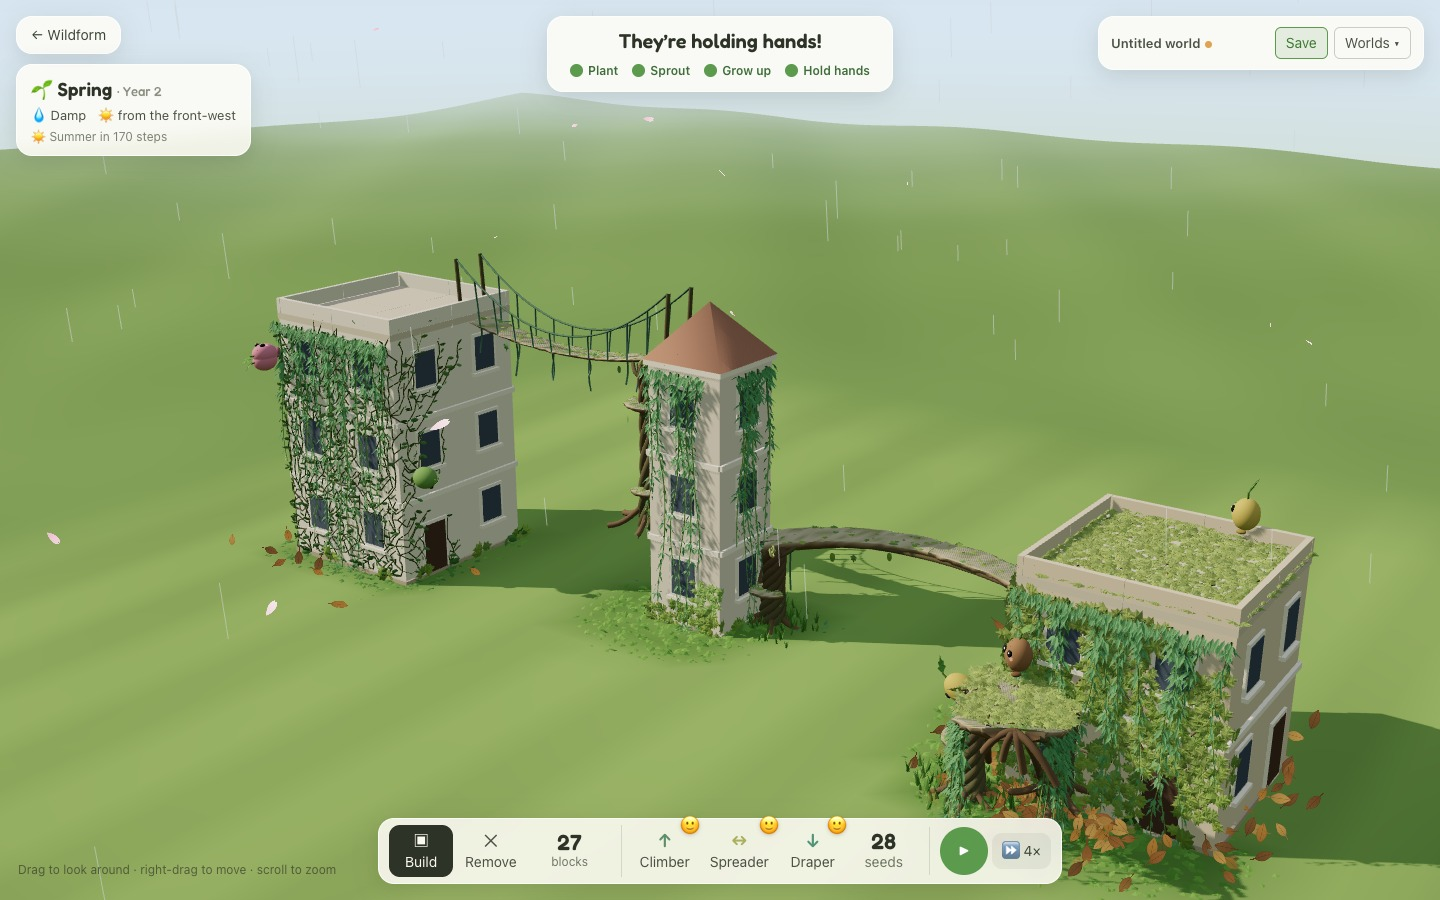
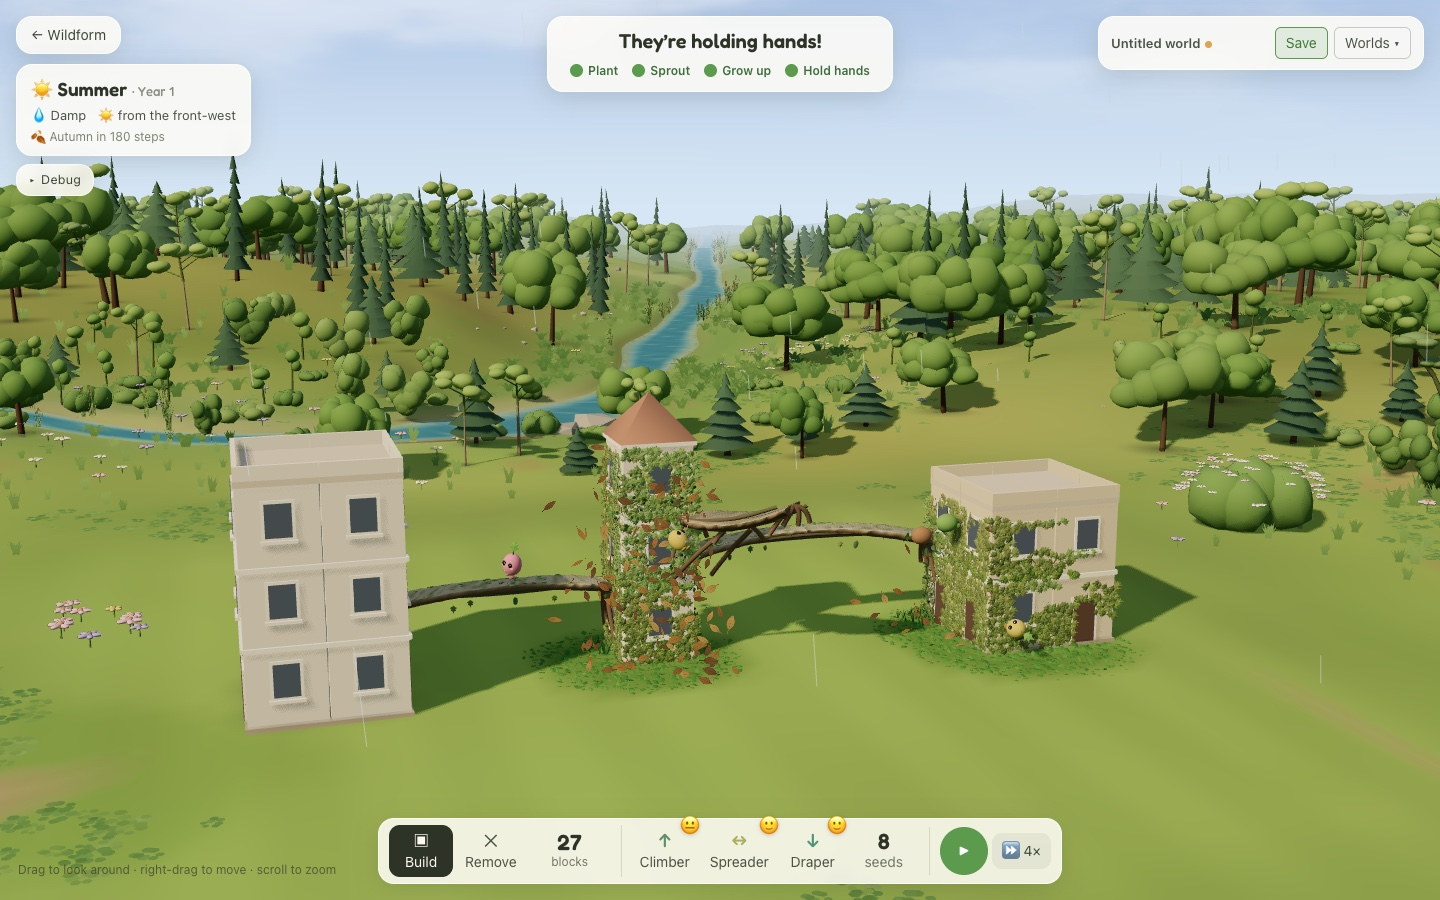
README: the game in its landscape; the studio's mind and Play's Debug layer
The Play and Seasons figures predated the landscape: both showed the
plants against a bare lawn. Recaptured from main in headless Chrome —
the regression's world (3 blocks, 8 seeds; goal at 690), one view across
the clearing to the stream and forest. Seasons at steps 884, 1,324,
1,824 and 2,324, each ≥ 116 steps from a change. (A first try at "950"
came out all autumn: the game ran on to ~1,045 while the frame settled —
the capture, not the blend, which gives 7% autumn at 950.) JPEG q88:
+372 KB together, the forest being busier than the lawn was.

Text: the clearing in "Build, plant, grow"; a paragraph on the land; the
seasons turning the land too. The studio's mind panel and Play's Debug
layer are shown with their existing figures (no new bytes). Source tree:
the eleven files and three tests missing from it. play.md's seasons
caption carries the new steps and says why it was recaptured.

The hero stays: it is the front door's own static image, which still
shows what the app shows.

diff --git a/README.md b/README.md
@@ -36,14 +36,14 @@ two buildings that stand too far apart for plants alone *holding hands*.
 
 ## How it plays
 
-**Build, plant, grow.** Two buildings stand on a lawn eight columns apart; a
-living bridge reaches five. So the player has to choose what to build — a
+**Build, plant, grow.** Two buildings stand on a lawn eight columns apart, in
+a clearing in the forest; a living bridge reaches five. So the player has to choose what to build — a
 stepping-stone tower, a wing pushed out — and where to plant, then let the
 plants do the rest. Blocks place themselves Townscaper-style: walls, roofs,
 arches and ledges work themselves out. Building and growing are one loop:
 editing the town mid-growth carries every plant onto the new building.
 
-![The game in its second spring, goal complete: a suspended walkway slung from the west building to the stepping-stone tower, a living bridge on to the east building, a balcony on root columns, walls and a roof terrace grown over, petals in the air and inhabitants on three of the buildings — with the goal, the season, and the toolbar counting 27 blocks and 28 seeds](docs/images/readme-play.jpg)
+![The game in its first summer, goal complete: a three-block stepping-stone tower between the two buildings, a living walkway from the west building to it and a bridge on to the east, both grown over with Climber and Spreader, inhabitants on the walkway and the east wall — and behind, the clearing's meadow, a stream coming down out of mixed forest, and the ridge beyond; the goal, the season, the Debug toggle and the toolbar counting 27 blocks left and 8 seeds](docs/images/readme-play.jpg)
 
 **Three plants, three directions.** Each grows by its own tendency. The
 **Climber** goes up, following edges — window frames, string courses,
@@ -63,13 +63,21 @@ support, and becomes a surface they grow on in turn.
 
 ![All eight living structures from the Architecture page, each a specimen grown in a real game: a bridge between two towers, a balcony braced out from a wall, a scaffold spiralling up beside a tower, a terrace on columns, a canopy held out from a wall, a suspended walkway slung between two towers, a hanging pod under an eave, and a root column holding up a walkway](docs/images/readme-architecture.jpg)
 
+**The land.** The town sits in a small clearing in a shallow hollow: a meadow
+of ground cover and wildflower drifts, footpaths coming in from the forest to
+each building, a stream cut into the land at the foot of a ridge, and a forest
+of mixed groves beyond. All of it is generated from a seed and saved as one,
+and none of it touches the ground the game is played on.
+
 **Seasons.** The year turns on its own: four seasons set the real rain, sun
 and warmth the plants grow by, eased across each change, and shown — leaf
-colour, sky, rain, snow, brown leaves falling where plants wither. Tuned over
+colour, sky, rain, snow, brown leaves falling where plants wither — and the
+land turns with them: the forest and undergrowth colour together, flowers
+close, leaves float down the stream, and in winter its edges frost. Tuned over
 ten seeds so the goal comes as often as before, with winter costing about a
 third of the plants and spring growing them back.
 
-![One world in its four seasons, close on a tower with a hanging pod, a suspended walkway and a living bridge: fresh green in spring, deep green in summer, red-orange leaves falling under a warm sky in autumn, a cool cast with snow in winter — inhabitants in each](docs/images/readme-seasons.jpg)
+![One world in its four seasons, from the same view across the clearing to the stream and the forest: fresh green in spring with flowers in the meadow, warmer green in summer, the forest and the plants on the buildings orange under a warm sky in autumn with leaves falling, a cool cast with snow and a frosted stream in winter — inhabitants on the structures in each](docs/images/readme-seasons.jpg)
 
 **Inhabitants.** Small creatures live on the green: they walk only where
 plants grow or on mature living architecture, so two buildings are separate
@@ -83,6 +91,11 @@ They make the consequences of growth visible.
 <p><img src="docs/images/readme-inhabitants-animations.gif" width="100%" alt="The four coats, each in one of the four animations: Moss idle, Lichen walking, Blossom discovering, Bark puzzled"></p>
 
 <p><img src="docs/images/readme-inhabitants-bridge.gif" width="100%" alt="The Inhabitants studio: two inhabitants walking across a living bridge, the camera following, while the inspector beside it counts down the cells left to the east building"></p>
+
+The studio shows why each does what it does: its state machine, drawn from
+the same table every change is checked against, and its goals scored.
+
+![The Inhabitants studio's mind panel: the state machine as a graph, Idle to Resting just taken and highlighted; beside it the four goals scored — Rest 0.12 chosen, with its reasons — and controls to change the season, its nature and its needs](docs/images/inhabitants-mind.png)
 
 Worlds can be saved and reopened, signed in, as state rather than a picture —
 a loaded world carries on growing exactly as it would have.
@@ -117,6 +130,14 @@ the player places to the living architecture the plants grow, and back:
 The full account, with every formula and constant, is
 [`docs/project/how-it-works.md`](docs/project/how-it-works.md); in the app,
 **Project → How it works**.
+
+To watch the mechanisms at work in a real game, open **Debug** in Play: it
+draws the simulation's own data over the scene — growth nodes and tip
+directions, surface suitability, the node rules' radii and the next structure
+to form, each inhabitant's state, goal and route — with Pause, Step and a
+time scale. It only reads; nothing it shows changes what grows.
+
+![Play with the Debug panel open and paused at step 380: growth nodes and mutation points drawn on the stepping-stone tower and the east building, labelled with what met and how close each is to forming, a walkway 40% to mature, and two inhabitants tagged with their states](docs/images/play-debug.png)
 
 ## The pages
 
@@ -290,6 +311,7 @@ src/
 │   ├── reactionDiffusion.ts  Gray–Scott
 │   ├── erosion.ts            Virtual-pipe hydraulic erosion
 │   ├── boids.ts              Fish schooling
+│   ├── shading.ts            One surface shaded eight ways: the comparison's scene
 │   └── index.ts              The strategy registry
 ├── study/                    Shared by the Topic 5–8 studies
 │   ├── terrain.ts            Small eroded terrain: height, slope, distance to water
@@ -393,6 +415,7 @@ src/
 │   ├── landscape.ts          The land round the town: terrain, fields, forest, stream, paths, scatter
 │   ├── features.ts           Lines through the land: nearest-segment index, rounding, A* routing
 │   ├── landscapeDecor.ts     The land drawn: trees, decorations, water, paths, their seasons
+│   ├── landscapePrefs.ts     Show decorations: a display preference shared by Play and the Lab
 │   ├── living.ts             Mutation nodes and what grows from each combination
 │   ├── draperLiving.ts       The Draper's meetings, read from its curtain: root column, hanging pod, suspended walkway
 │   ├── livingMesh.ts         Living architecture drawn, grown in stages
@@ -402,11 +425,13 @@ src/
 │   ├── groundCover.ts        Ground spread from wall feet, roots and Draper roots
 │   ├── sky.ts                The clear-day sky
 │   ├── seasonFx.ts           The seasons made visible: leaf tint, lawn, sky, light, weather particles
+│   ├── debugLayer.ts         Play's Debug overlays: the simulation's own data, drawn over the scene
 │   ├── game.ts               One game, carried through every edit; the goal; seeds planted
 │   ├── worldState.ts         A world as data: what is saved, read back and checked
 │   ├── WorldMenu.tsx         Save, Save as, New world, My worlds, unsaved changes
 │   ├── BuildViewport.tsx     The scene, tools and picking
-│   └── BuildPage.tsx         The Lab's sidebar: goal, mode, plant behavior, interaction, environment, growth, living architecture, events
+│   ├── BuildPage.tsx         The Lab's sidebar: goal, mode, plant behavior, interaction, environment, growth, living architecture, events
+│   └── build.css             The viewport and the Lab's sidebar, shared with Play
 ├── game/                     Project Play: Wildform as a game, full-screen
 │   ├── PlayPage.tsx          The front door in the Project tabs
 │   ├── GamePage.tsx          The game: HUD, the opening, the voice, seasons, seeds, the win
@@ -414,20 +439,26 @@ src/
 │   ├── seasons.ts            The four seasons, eased; the badge's words; moods
 │   ├── seasonLook.ts         What each season looks like
 │   ├── UnsavedDialog.tsx     The warning before unsaved work is lost
+│   ├── DebugPanel.tsx        The Debug panel: overlays, Pause, Step, Speed
 │   └── game.css              The game's look
 ├── inhabitants/              Project Inhabitants: creatures that live on the green, and their studio
 │   ├── nav.ts                Where they can walk: the walkable rule, regions, routes
-│   ├── agent.ts              One inhabitant and its state machine, shared by every page
+│   ├── mind.ts               Needs, nature and the goals scored: what it wants, and where
+│   ├── agent.ts              One inhabitant and its state machine — the transition table every change is checked against
 │   ├── inhabitantMesh.ts     The model and its animations
 │   ├── population.ts         Play's and the Lab's inhabitants
 │   ├── visibility.ts         Show Inhabitants, a stored display preference
 │   ├── scenarios.ts          The studio's test scenes, each a real game
 │   ├── StudioViewport.tsx    The studio's stage: scenes, overlays, click to send
-│   └── InhabitantsPage.tsx   The studio: portrait, scenes, inspector, notes
+│   ├── StateGraph.tsx        The state machine, drawn from that table
+│   ├── MindPanel.tsx         Goals scored with their reasons; experiments; history
+│   ├── InhabitantsPage.tsx   The studio: portrait, scenes, inspector, notes
+│   └── inhabitants.css       The studio's look
 ├── architecture/             Project Architecture: the atlas of living structures
 │   ├── specimens.ts          Recipes, each grown as a real game until its structure forms
 │   ├── SpecimenViewport.tsx  The studio: views, timeline, labels, camera
 │   ├── ArchitecturePage.tsx  The page: plates, stage, variations, texts
+│   ├── architecture.css      The catalogue plate and its pale studio
 │   └── views.ts              View modes and their colours
 ├── wildform/                 The Wildform simulation Build runs, and the archived midterm Explore page
 │   ├── names.ts              Every name the page shows: title, species, mutation
@@ -439,7 +470,8 @@ src/
 │   ├── platformMesh.ts       The Living Platform as geometry, grown in
 │   ├── wildVegetation.ts     The two species drawn by shape
 │   ├── WildViewport.tsx      Scene, views, annotations, timeline re-runs
-│   └── WildformPage.tsx      The presentation sidebar
+│   ├── WildformPage.tsx      The presentation sidebar
+│   └── wildform.css          The midterm page's look
 ├── site/                     Project Site: Roosevelt Island from NYC Open Data
 │   ├── siteData.ts           The snapshot's types, loader and area helpers
 │   ├── campus.ts             The Cornell Tech buildings as growth-model cells
@@ -530,6 +562,9 @@ public/
 └── site/                     The Roosevelt Island snapshot, the far shores' buildings, the south's landscape
 
 tests/
+├── landscape.test.ts         The land: seeded, the town's ground untouched, gentle hills, a mixed forest, the stream in its banks, paths, saving
+├── inhabitants.test.ts       Goals and states: rest, shelter in rain, natures, replanning when growth withers, only listed transitions
+├── debug.test.ts             The Debug layer reads the game's own answers and changes nothing
 ├── seeds.test.ts             Seed counting: planting, refusals, growth, undo, save and load (npm test)
 ├── agents.test.ts            Topic 9: determinism, no agent in a wall, states, evaporation, emergence, blocks, saved shape
 ├── city.test.ts              Topic 10: polygon split, planar roads on land, plots off roads, threshold, coherence, buildings, saved shape

diff --git a/docs/project/play.md b/docs/project/play.md
@@ -179,11 +179,14 @@ season's line says.
 
 ## What the seasons look like
 
-![The same world in spring, summer, autumn and winter, close on a tower with a hanging pod, a suspended walkway and a living bridge](../images/readme-seasons.jpg)
+![The same world in spring, summer, autumn and winter, from one view across the clearing: a stepping-stone tower joined to both buildings by a walkway and a bridge, the stream and the forest behind](../images/readme-seasons.jpg)
 
-*One world, captured from the game close up, so the leaves and weather show:
-spring of its second year (step 2,320), then summer (840), autumn (1,320)
-and winter (1,770) of its first — leaves falling in autumn, snow in winter.*
+*One world, captured from the game from one view, so the land's seasons show
+with the plants': spring of its second year (step 2,324), then summer (884),
+autumn (1,324) and winter (1,824) of its first — the forest and the plants
+orange and leaves falling in autumn, snow and a frosted stream in winter.
+Recaptured once the landscape was added; the first version, close on a
+tower, showed the plants against a bare lawn.*
 
 The weather changed the growth but, apart from the sun's direction, nothing
 you could see. Now the scene follows the season too (`seasonLook.ts`, drawn
